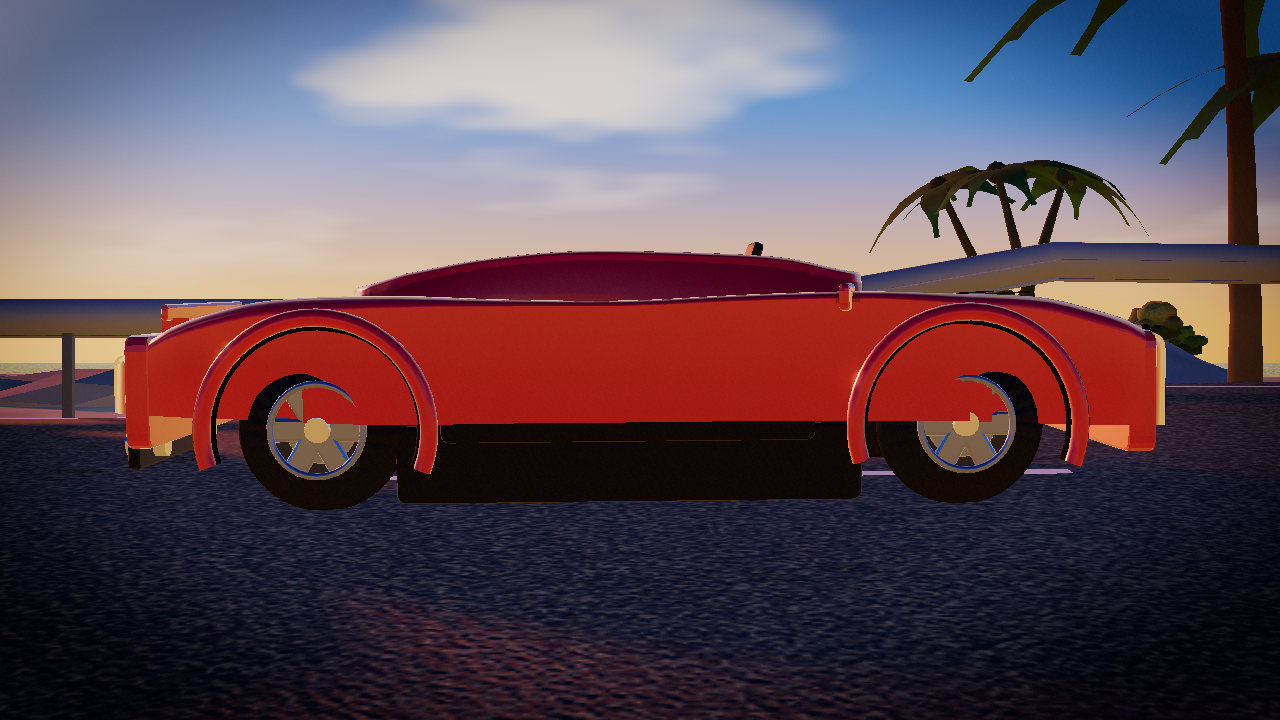
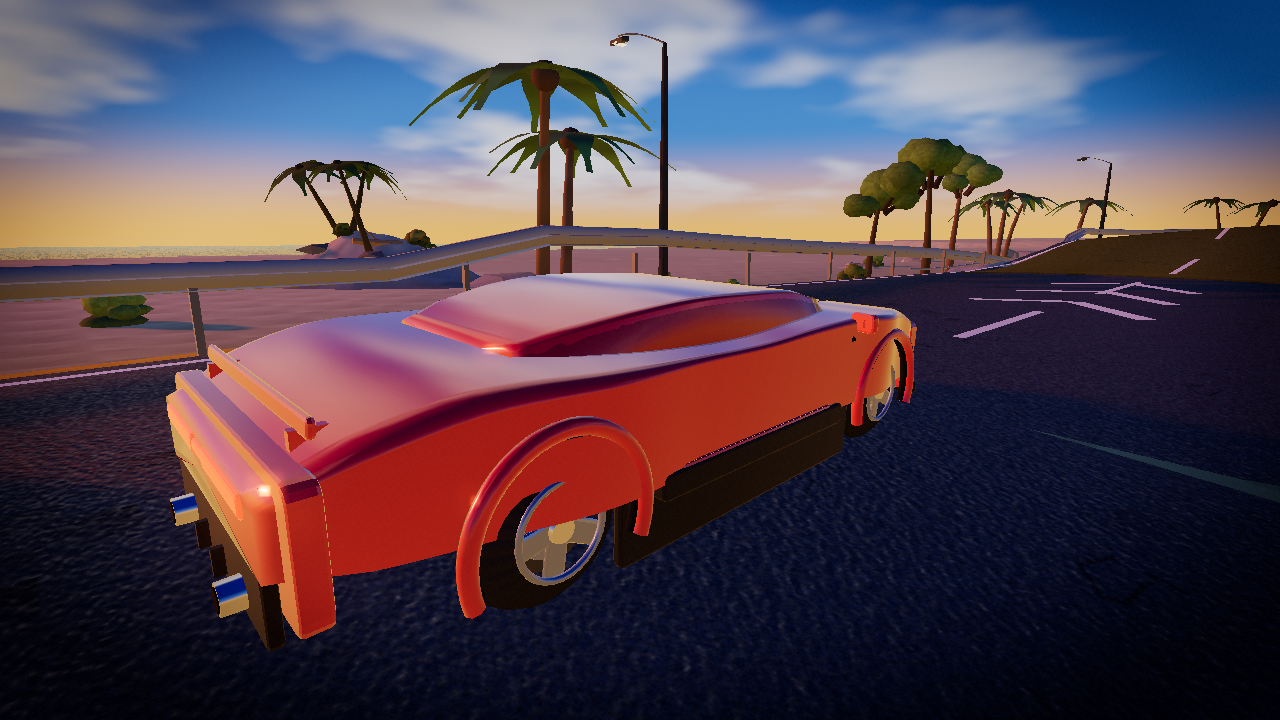
fix: uniform car_model_* shot names, restore drift-state frame

diff --git a/src/dev/harness.ts b/src/dev/harness.ts
@@ -422,11 +422,12 @@ export function installDevHarness(game: Game, canvas: HTMLCanvasElement, buildMs
   }
 
   /* ---------------- per-model body shots (registered LAST) ------------------- */
-  // End-registration matters: shots.mjs captures in registry order on one page, so
-  // every pre-existing pose renders before the first selectModel call and the
-  // hero/grid/state battery stays untouched; each model shot sets its own body on arrival.
+  // `car_model_*` keeps these clear of the pre-existing `car_drift` drift-STATE pose
+  // (Gate-C battery). End-registration matters: shots.mjs captures in registry order
+  // on one page, so every pre-existing pose renders before the first selectModel call
+  // and the hero/grid/state battery stays untouched; each model shot sets its own body.
   for (const id of ['hero', 'hyper', 'grip', 'drift']) {
-    Debug.registerPose(`car_${id}`, onRoad([7.55, 0.64, 0.10], [0, 0.58, 0], 26, { model: id }))
+    Debug.registerPose(`car_model_${id}`, onRoad([7.55, 0.64, 0.10], [0, 0.58, 0], 26, { model: id }))
   }
 
   /* ---------------- dev probes (removed with the harness, spec §23.4) ------ */
